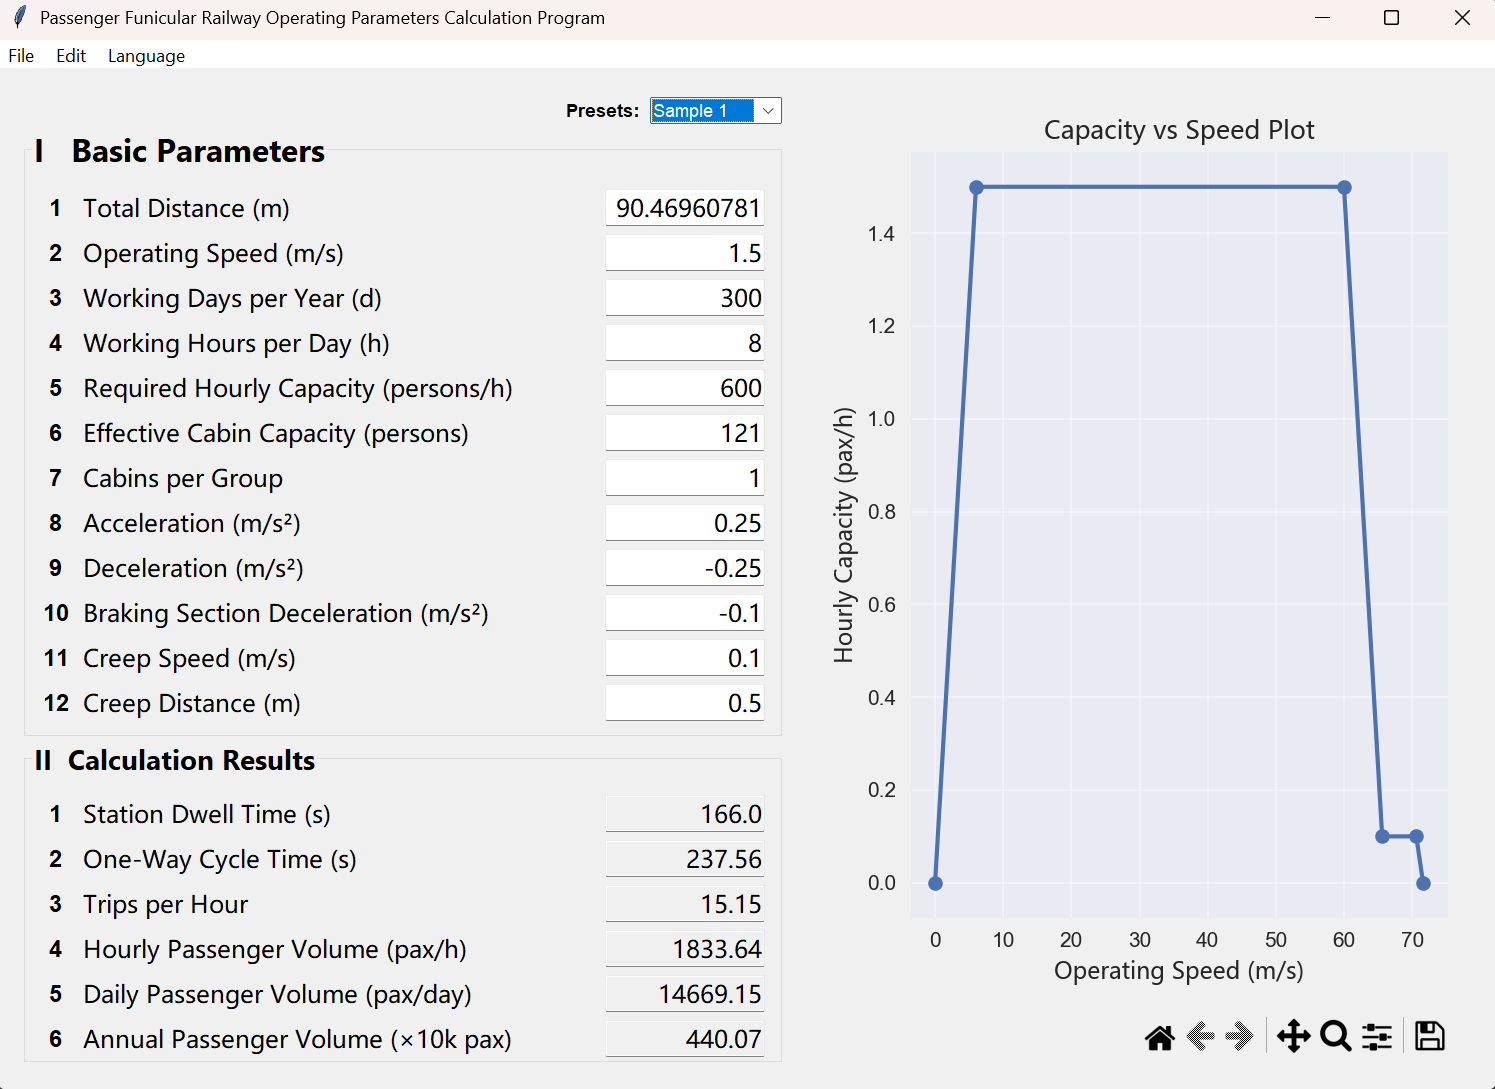
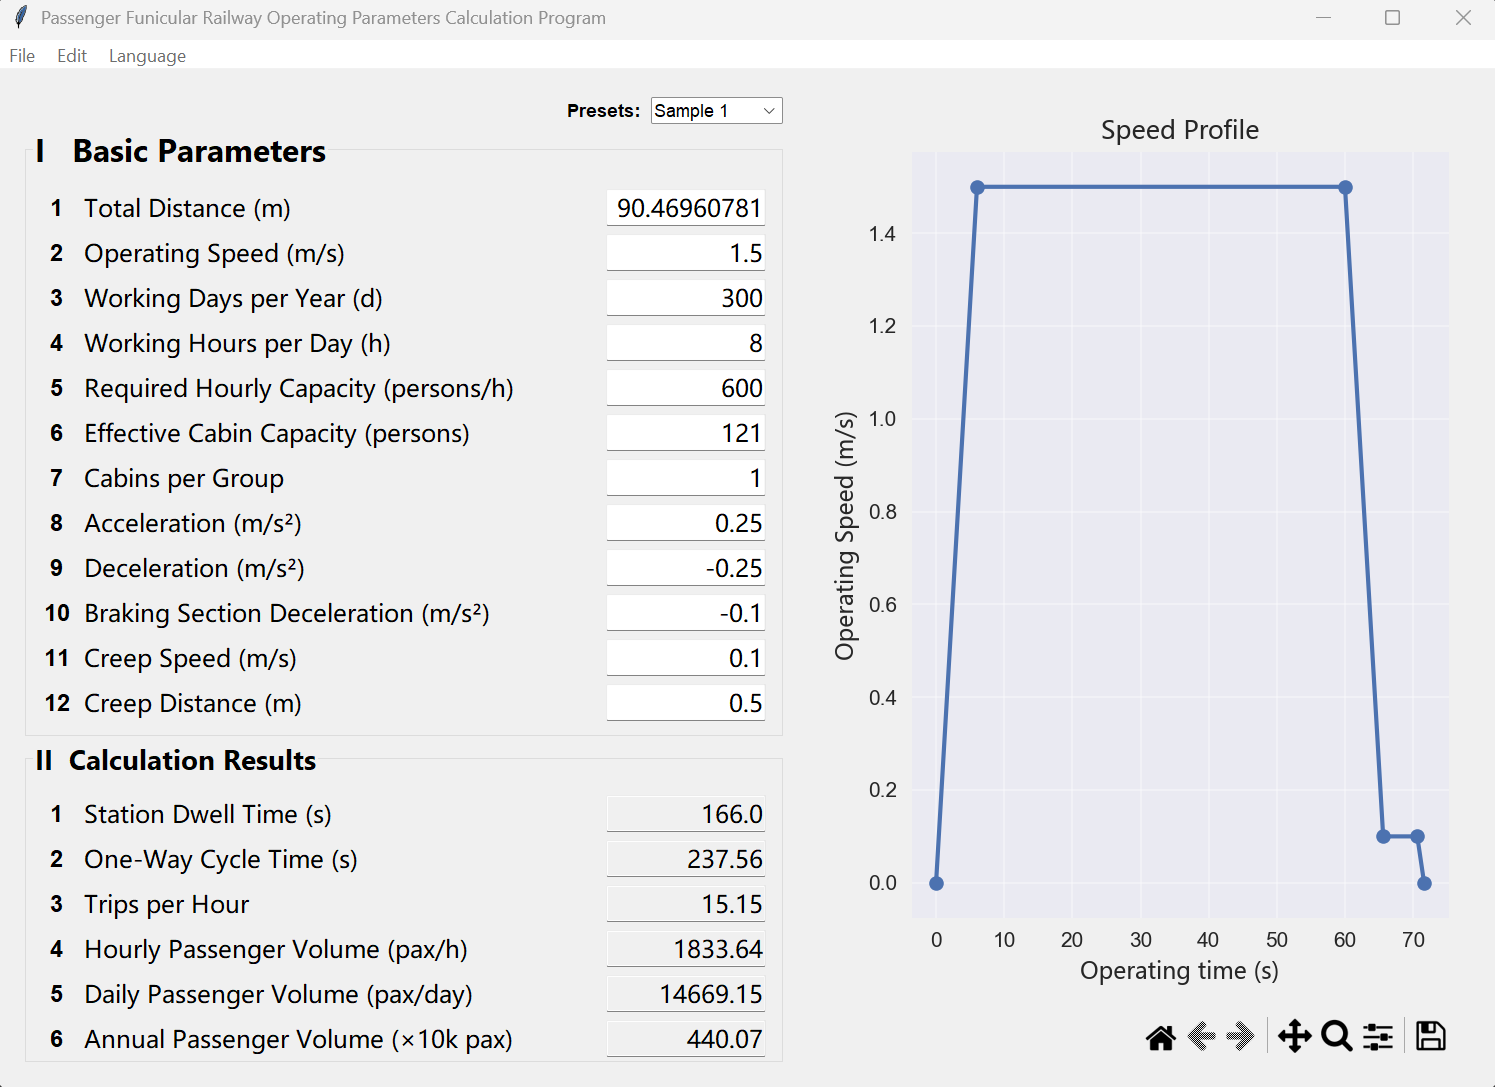
update app_preview and config

diff --git a/core/config.py b/core/config.py
@@ -173,16 +173,16 @@ plot_texts["page1"] = {}
 plot_texts["page1"]["plot1"] = {
 
     "title": {
-        "ZH": "运量与速度关系图",
-        "EN": "Capacity vs Speed Plot",
+        "ZH": "速度梯形图",
+        "EN": "Speed Profile",
     },
     "x_label": {
-        "ZH": "运行速度 (m/s)",
-        "EN": "Operating Speed (m/s)",
+        "ZH": "运行时间 (s)",
+        "EN": "Operating time (s)",
     },
     "y_label": {
-        "ZH": "小时运量 (人/小时)",
-        "EN": "Hourly Capacity (pax/h)",
+        "ZH": "运行速度 (m/s)",
+        "EN": "Operating Speed (m/s)",
     },
     "no_input_error_message": {
         "ZH": "请输入必要参数以预览图表",
